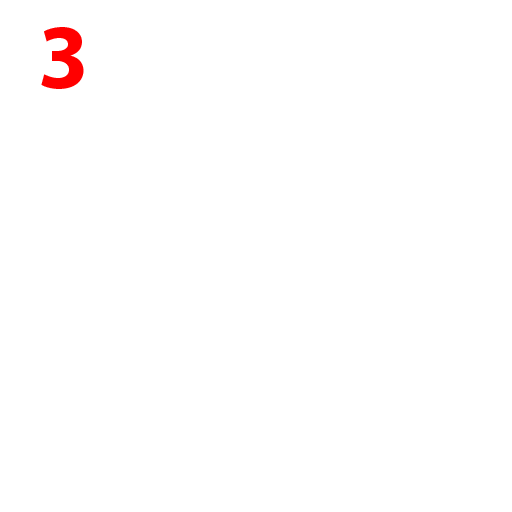
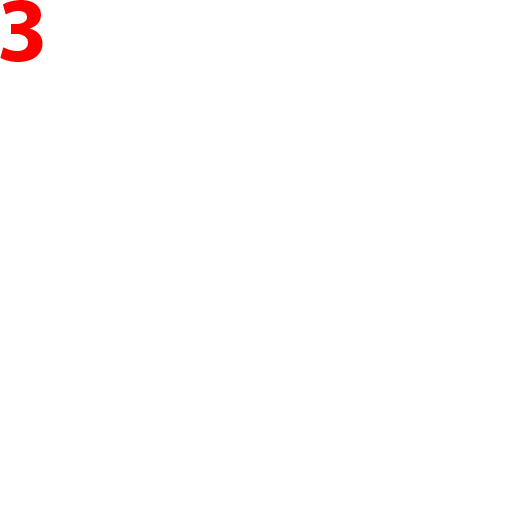
Trying to fix countdown number position (Broken)

Changed region(s): [[0.0, 0.0, 0.1875, 0.1875]]

diff --git a/vox/Source/vox/src/PuppetScene.cpp b/vox/Source/vox/src/PuppetScene.cpp
@@ -189,17 +189,23 @@ PuppetScene::PuppetScene(PuppetGame * _game, float seconds):
 	gameCam->pitch = -10.0f;
 	camera = gameCam;
 
-	TextureSampler * countDown1TextureSampler = PuppetResourceManager::countDown1Tex;
-	TextureSampler * countDown2TextureSampler = PuppetResourceManager::countDown2Tex;
-	TextureSampler * countDown3TextureSampler = PuppetResourceManager::countDown3Tex;
-	TextureSampler * countDown4TextureSampler = PuppetResourceManager::countDown4Tex;
-	TextureSampler * countDown5TextureSampler = PuppetResourceManager::countDown5Tex;
+	TextureSampler * countDown1TextureSampler = PuppetResourceManager::countDown1;
+	TextureSampler * countDown2TextureSampler = PuppetResourceManager::countDown2;
+	TextureSampler * countDown3TextureSampler = PuppetResourceManager::countDown3;
+	TextureSampler * countDown4TextureSampler = PuppetResourceManager::countDown4;
+	TextureSampler * countDown5TextureSampler = PuppetResourceManager::countDown5;
 
-	Box2DSprite * countDown1 = new Box2DSprite(world, b2_staticBody, true, nullptr, new Transform(), countDown1TextureSampler->width, countDown1TextureSampler->height, countDown1TextureSampler->texture, 0.1f);
-	Box2DSprite * countDown2 = new Box2DSprite(world, b2_staticBody, true, nullptr, new Transform(), countDown2TextureSampler->width, countDown2TextureSampler->height, countDown2TextureSampler->texture, 0.1f);
-	Box2DSprite * countDown3 = new Box2DSprite(world, b2_staticBody, true, nullptr, new Transform(), countDown3TextureSampler->width, countDown3TextureSampler->height, countDown3TextureSampler->texture, 0.1f);
-	Box2DSprite * countDown4 = new Box2DSprite(world, b2_staticBody, true, nullptr, new Transform(), countDown4TextureSampler->width, countDown4TextureSampler->height, countDown4TextureSampler->texture, 0.1f);
-	Box2DSprite * countDown5 = new Box2DSprite(world, b2_staticBody, true, nullptr, new Transform(), countDown5TextureSampler->width, countDown5TextureSampler->height, countDown5TextureSampler->texture, 0.1f);
+	Box2DSprite * countDown1 = new Box2DSprite(world, b2_staticBody, true, nullptr, new Transform(), countDown1TextureSampler->width, countDown1TextureSampler->height, countDown1TextureSampler->texture, 1.f);
+	Box2DSprite * countDown2 = new Box2DSprite(world, b2_staticBody, true, nullptr, new Transform(), countDown2TextureSampler->width, countDown2TextureSampler->height, countDown2TextureSampler->texture, 1.f);
+	Box2DSprite * countDown3 = new Box2DSprite(world, b2_staticBody, true, nullptr, new Transform(), countDown3TextureSampler->width, countDown3TextureSampler->height, countDown3TextureSampler->texture, 1.f);
+	Box2DSprite * countDown4 = new Box2DSprite(world, b2_staticBody, true, nullptr, new Transform(), countDown4TextureSampler->width, countDown4TextureSampler->height, countDown4TextureSampler->texture, 1.f);
+	Box2DSprite * countDown5 = new Box2DSprite(world, b2_staticBody, true, nullptr, new Transform(), countDown5TextureSampler->width, countDown5TextureSampler->height, countDown5TextureSampler->texture, 1.f);
+
+	countDown1->transform->scale(glm::vec3(1000, 1000, 1000));
+	countDown2->transform->scale(glm::vec3(1000, 1000, 1000));
+	countDown3->transform->scale(glm::vec3(1000, 1000, 1000));
+	countDown4->transform->scale(glm::vec3(1000, 1000, 1000));
+	countDown5->transform->scale(glm::vec3(1000, 1000, 1000));
 
 	countDownNumbers.push_back(countDown1);
 	countDownNumbers.push_back(countDown2);
@@ -248,7 +254,7 @@ void PuppetScene::update(Step * _step){
 	if(this == game->currentScene){
 		currentTime += _step->deltaTime;
 		if(currentTime > duration){
-			complete();
+			//complete();
 		}else if (currentTime > duration - 5){
 			if(duration - currentTime < countDown){
 				doCountDown();	
@@ -377,6 +383,5 @@ void PuppetScene::doCountDown(){
 	std::cout << "=========================" << std::endl;
 
 	// Add new number to scene
-	addChild(countDownNumbers.at(countDown), 0);
-	countDownNumbers.at(countDown)->setTranslationPhysical(glm::vec3(0, 10, 0), true);
+	addChild(countDownNumbers.at(countDown), 2);
 }

diff --git a/vox/Source/vox/src/PuppetResourceManager.cpp b/vox/Source/vox/src/PuppetResourceManager.cpp
@@ -15,11 +15,11 @@ TextureSampler * PuppetResourceManager::head1 = new TextureSampler(new Texture("
 TextureSampler * PuppetResourceManager::face1 = new TextureSampler(new Texture("../assets/hurly-burly/Face1.png", 512,512, true, true), 67, 72);
 TextureSampler * PuppetResourceManager::hand1 = new TextureSampler(new Texture("../assets/hurly-burly/Hand1.png", 512, 512, true, true), 38, 32);
 
-TextureSampler * PuppetResourceManager::countDown1Tex = new TextureSampler(new Texture("../assets/hurly-burly/Countdown/1.png", 512, 512, true, true), 200, 200);
-TextureSampler * PuppetResourceManager::countDown2Tex = new TextureSampler(new Texture("../assets/hurly-burly/Countdown/2.png", 512, 512, true, true), 200, 200);
-TextureSampler * PuppetResourceManager::countDown3Tex = new TextureSampler(new Texture("../assets/hurly-burly/Countdown/3.png", 512, 512, true, true), 200, 200);
-TextureSampler * PuppetResourceManager::countDown4Tex = new TextureSampler(new Texture("../assets/hurly-burly/Countdown/4.png", 512, 512, true, true), 200, 200);
-TextureSampler * PuppetResourceManager::countDown5Tex = new TextureSampler(new Texture("../assets/hurly-burly/Countdown/5.png", 512, 512, true, true), 200, 200);
+TextureSampler * PuppetResourceManager::countDown1 = new TextureSampler(new Texture("../assets/hurly-burly/Countdown/1.png", 512, 512, true, true), 28, 60);
+TextureSampler * PuppetResourceManager::countDown2 = new TextureSampler(new Texture("../assets/hurly-burly/Countdown/2.png", 512, 512, true, true), 28, 60);
+TextureSampler * PuppetResourceManager::countDown3 = new TextureSampler(new Texture("../assets/hurly-burly/Countdown/3.png", 512, 512, true, true), 28, 60);
+TextureSampler * PuppetResourceManager::countDown4 = new TextureSampler(new Texture("../assets/hurly-burly/Countdown/4.png", 512, 512, true, true), 28, 60);
+TextureSampler * PuppetResourceManager::countDown5 = new TextureSampler(new Texture("../assets/hurly-burly/Countdown/5.png", 512, 512, true, true), 28, 60);
 
 PuppetResourceManager::PuppetResourceManager(){
 	RaidTheCastleResourceManager::init();
@@ -31,6 +31,11 @@ PuppetResourceManager::PuppetResourceManager(){
 	resources.push_back(face1);
 	resources.push_back(hand1);
 
+	resources.push_back(countDown1);
+	resources.push_back(countDown2);
+	resources.push_back(countDown3);
+	resources.push_back(countDown4);
+	resources.push_back(countDown5);
 	//Not sure why I need to call the constructor here 
 	//raidTheCastle = new RaidTheCastleResourceManager(); 
 	//subManagers.push_back(raidTheCastle);

diff --git a/vox/Source/vox/include/PuppetResourceManager.h b/vox/Source/vox/include/PuppetResourceManager.h
@@ -15,11 +15,11 @@ public:
 	static TextureSampler * face1;
 	static TextureSampler * hand1;
 
-	static TextureSampler * countDown1Tex;
-	static TextureSampler * countDown2Tex;
-	static TextureSampler * countDown3Tex;
-	static TextureSampler * countDown4Tex;
-	static TextureSampler * countDown5Tex;
+	static TextureSampler * countDown1;
+	static TextureSampler * countDown2;
+	static TextureSampler * countDown3;
+	static TextureSampler * countDown4;
+	static TextureSampler * countDown5;
 
 	
 	PuppetResourceManager();
